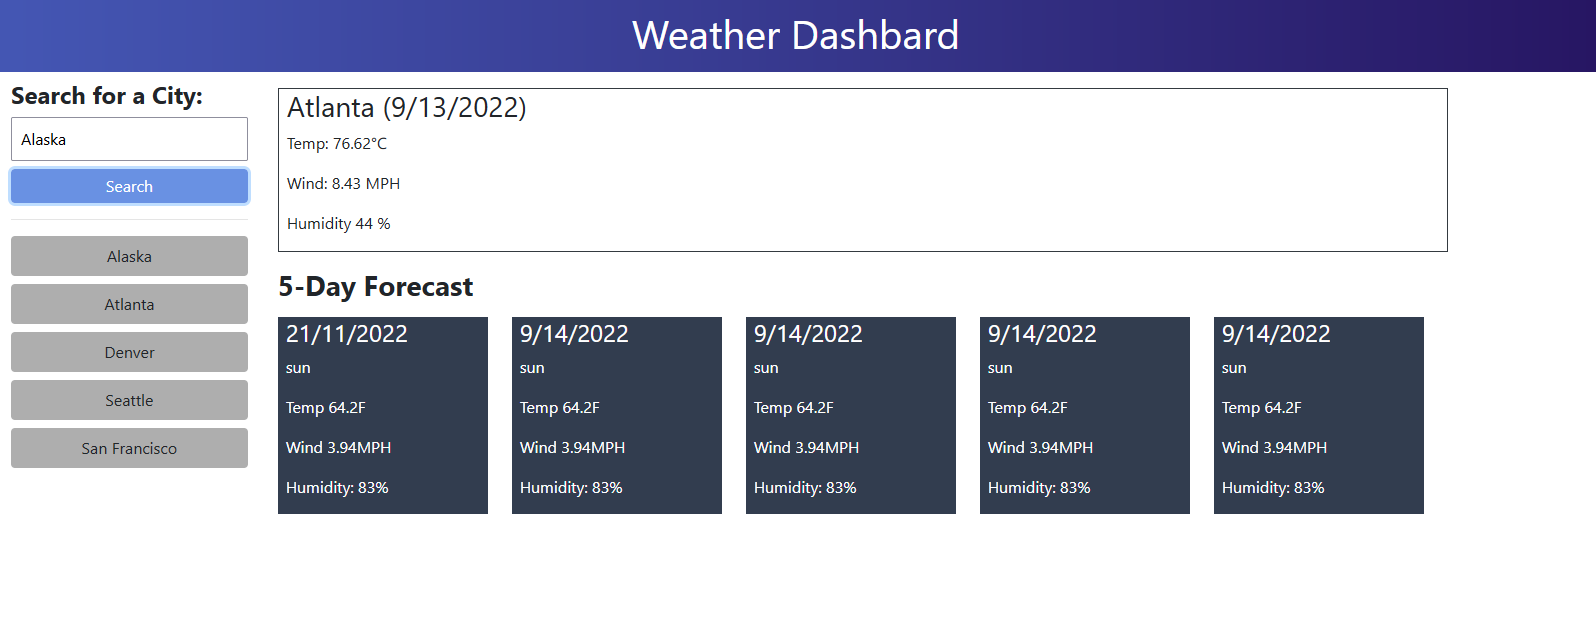
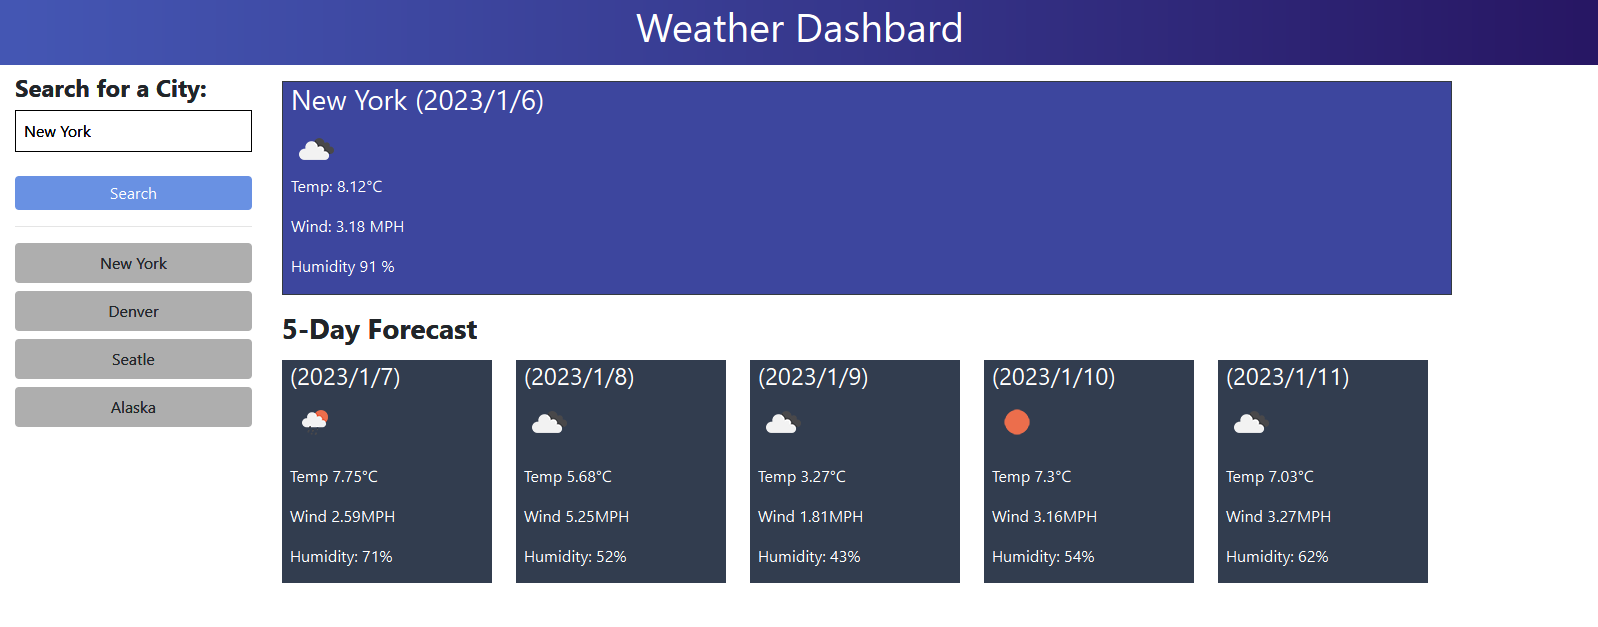
bugs fixed, non working functions made into working

diff --git a/assets/js/script.js b/assets/js/script.js
@@ -1,20 +1,148 @@
-function search(){
-    var cityInput = document.getElementById("cityInput").value;
-    if(cityInput=="")
-    {
+let input = document.getElementById("cityInput");
+let appId = "&appid=4c4cc2a0e9c2426c470227c0d2510cb2";
+let coordinatesApi = "https://api.openweathermap.org/geo/1.0/direct?q=";
+let weatherApi = "https://api.openweathermap.org/data/2.5/forecast?units=metric";
+input.addEventListener("keypress", function (event) {
+    if (event.key === "Enter") {
+        event.preventDefault();
+        search();
+    }
+});
+document.getElementById("savedC").addEventListener("click", function (e) {
+    if (e.target && e.target.matches("li.history-bg")) {
+        // e.target.className = "foo"; // new class name here
+        document.getElementById("cityInput").value = e.target.innerHTML;
+        search();
+        // console.log(e.target.innerHTML);
+    }
+});
+
+function search() {
+    let cityInput = document.getElementById("cityInput").value;
+    document.getElementById("cityInput").style.border = "1px solid black";
+    document.getElementById("err").innerHTML = "";
+    if (cityInput == "") { return; }
+    else {
+        let savedCity = localStorage.getItem('cities');
+        if (savedCity == null) {
+            let cities = [];
+            let searchedCity = { c: cityInput };
+            cities.push(searchedCity);
+            localStorage.setItem("cities", JSON.stringify(cities));
+            document.getElementById("savedC").innerHTML = "<li class=\"history-bg rounded mt-2 mb-2 p-2 text-center \">" + cityInput + "</li>";
+        }
+        else {
+            let storedCities = JSON.parse(localStorage.getItem("cities"));
+            let receivedCity = { c: cityInput };
+            storedCities.forEach(elem => {
+                if (elem.c == cityInput) {
+                    storedCities = storedCities.filter(val => val.c !== cityInput)
+                }
+            });
+            storedCities.unshift(receivedCity);
+            localStorage.setItem("cities", JSON.stringify(storedCities));
+            let result = JSON.parse(localStorage.getItem("cities"));
+            let listBtn = "";
+            result.forEach(elem => {
+                listBtn += "<li class=\"history-bg rounded mt-2 mb-2 p-2 text-center\">" + elem.c + "</li>";
+            });
+            document.getElementById("savedC").innerHTML = listBtn;
+        }
+        extractCordinates(cityInput);
+    }
+}
+
+function extractCordinates(cityInput) {
+    fetchCity = cityInput;
+    let url = coordinatesApi + fetchCity + appId
+    let lat;
+    let lon;
+    fetch(url)
+        .then(res => { return res.json(); })
+        .then(res => {
+            if (res != "") { lat = res[0].lat; lon = res[0].lon; return { lati: lat, longi: lon } }
+            else { return "no city found"; }
+        })
+        .then(res => {
+            if (res == "no city found") {
+                document.getElementById("cityInput").style.border = "1px solid #FF0000";
+                document.getElementById("err").innerHTML = "Invalid City Name";
+            }
+            else {
+                getWeather(lat, lon);
+            }
+
+        });
+}
+
+function getWeather(lat, lon) {
+    fetch(weatherApi + "&lat=" + lat + "&lon=" + lon + appId)
+        .then(res => { return res.json() })
+        .then(res => {
+            let date = new Date(),
+                dd = date.getDate(),
+                mm = date.getMonth() + 1,
+                yy = date.getFullYear();
+            let days = {};
+            for (i = 0; i <= 5; i++) {
+                let curdate = new Date(yy, mm, dd + i)
+                days[i] = curdate.getDate();
+            }
+            let n = 0;
+            let fetchedData = [];
+            res.list.forEach(el => {
+                let cd = new Date(yy, mm, dd + n)
+                let day = cd.getDate();
+                let month = cd.getMonth();
+                let year = cd.getFullYear();
+                let formattedDate = "(" + year + "/" + month + "/" + day + ")";
+                let d = new Date(el.dt * 1000);
+                dt = d.getDate();
+                if (dt == days[n]) {
+                    let icon = "http://openweathermap.org/img/wn/" + el.weather[0].icon + ".png";
+                    let data = { "date": formattedDate, "icon": icon, "weather": el.weather[0].main, "temp": el.main.temp, "wind": el.wind.speed, "humid": el.main.humidity };
+                    fetchedData.push(data);
+                    ++n;
+                }
+            })
+            let weatherDataJson = JSON.stringify(fetchedData)
+            showWeather(weatherDataJson);
+        });
+}
+
+function showWeather(weatherDataJson) {
+    let result = JSON.parse(weatherDataJson);
+    document.getElementById("currCity").innerHTML = input.value + " " + result[0].date;
+    document.getElementById("toayTemp").innerHTML = result[0].temp;
+    document.getElementById("todayWind").innerHTML = result[0].wind;
+    document.getElementById("todayHumid").innerHTML = result[0].humid;
+    document.getElementById("currCityImg").src = result[0].icon;
+    let card = "";
+    result.forEach((el, index) => {
+        if (index > 0) {
+            card += "  <div class=\"bg-card pl-2 mt-2 mr-4 text-white w-20\"><h4>" + result[index].date + "</h4><p><img src=" + result[index].icon + "></p><p>Temp " + result[index].temp + "&#8451;</p><p>Wind " + result[index].wind + "MPH</p><p>Humidity: " + result[index].humid + "%</p></div>";
+            document.getElementById("cards-container").innerHTML = card;
+        }
+    })
+    document.getElementById("greet").style.display = "none";
+    document.getElementById("res1").style.display = "block";
+    document.getElementById("res2").style.display = "block";
+}
+
+function loadBtns() {
+    let storedCities = JSON.parse(localStorage.getItem("cities"));
+    if (!storedCities) {
         return;
     }
-    else{
-        var savedCity = localStorage.getItem(cityInput);
-        if(savedCity ==null)
-        {
-            localStorage.setItem('city',cityInput);
-            document.getElementById("savedC").innerHTML=cityInput;
-        }
-        else{
-            document.getElementById("savedC").innerHTML=cityInput;
-        }
-
-    }
-    
+    localStorage.setItem("cities", JSON.stringify(storedCities));
+    let result = JSON.parse(localStorage.getItem("cities"));
+    let listBtn = "";
+    result.forEach(elem => {
+        listBtn += "<li class=\"history-bg rounded mt-2 mb-2 p-2 text-center\">" + elem.c + "</li>";
+    });
+    document.getElementById("savedC").innerHTML = listBtn;
 }
+
+window.onload = function () {
+    loadBtns();
+};

diff --git a/index.html b/index.html
@@ -1,5 +1,6 @@
 <!DOCTYPE html>
 <html lang="en">
+
 <head>
     <meta charset="UTF-8">
     <meta http-equiv="X-UA-Compatible" content="IE=edge">
@@ -8,6 +9,7 @@
     <link rel="stylesheet" href="./assets/css/styles.css">
     <title>Weather</title>
 </head>
+
 <body>
     <header class="nav-header header-bg text-center text-white pt-2 pb-2">
         <h1>Weather Dashbard</h1>
@@ -17,28 +19,30 @@
             <section class="col-lg-2 mt-2">
                 <div>
                     <h4 class="text-black"><b> Search for a City:</b></h4>
-                    <input type="text" class="mb-2 pt-2 pb-2 pl-2 w-100" placeholder="San Diego" id="cityInput">
-                    <button class="btn bg-search text-white w-100 pt-1 pb-1" id="search" onClick="search()">Search</button>
+                    <input type="text" class="mb-2 pt-2 pb-2 pl-2 w-100" placeholder="San Diego" id="cityInput"
+                        value="Islamabad">
+                    <p id="err"></p>
+                    <button class="btn bg-search text-white w-100 pt-1 pb-1" id="search"
+                        onClick="search()">Search</button>
                 </div>
                 <hr>
                 <div>
-                    <ul class="list-unstyled">
-                        <li class="history-bg rounded mt-2 mb-2 p-2 text-center" id="savedC"></li>
-                        <li class="history-bg rounded mt-2 mb-2 p-2 text-center">Atlanta</li>
-                        <li class="history-bg rounded mt-2 mb-2 p-2 text-center">Denver</li>
-                        <li class="history-bg rounded mt-2 mb-2 p-2 text-center">Seattle</li>
-                        <li class="history-bg rounded mt-2 mb-2 p-2 text-center">San Francisco</li>
+                    <ul class="list-unstyled" id="savedC">
                     </ul>
                 </div>
             </section>
             <section class="col-lg-9 mt-3">
-                <section class="border border-dark pl-2 ">
-                    <h3>Atlanta (9/13/2022)</h3>
-                    <p>Temp: <span id="toayTemp">76.62</span>&#8451;</p>
+                <section class="border border-dark pl-2 " id="greet">
+                    <h2 class="text-center">Search For Weather</h2>
+                </section>
+                <section class="border border-dark pl-2 " id="res1">
+                    <h3 id="currCity">Atlanta (9/13/2022)</h3>
+                    <img src="" id="currCityImg">
+                    <p>Temp: <span id="toayTemp">76.62</span>&#8451; </p>
                     <P>Wind: <span id="todayWind">8.43</span> MPH</P>
                     <P>Humidity <span id="todayHumid">44</span> %</P>
                 </section>
-                <section class="mt-3">
+                <section class="mt-3" id="res2">
                     <h3><b>5-Day Forecast</b></h3>
                     <div class="d-flex" id="cards-container">
                         <div class="bg-card pl-2 mt-2 mr-4 text-white w-20">
@@ -83,4 +87,5 @@
     </main>
     <script src="./assets/js/script.js"></script>
 </body>
+
 </html>

diff --git a/assets/css/styles.css b/assets/css/styles.css
@@ -1,8 +1,19 @@
 .header-bg{
     background: linear-gradient(90deg, rgba(68,86,179,1) 1%, rgba(56,59,145,1) 46%, rgba(39,22,99,1) 100%);
 }
+#res1{
+    background: #3d469e;
+    color: white;
+}
+#res1,#res2{
+    display: none;
+}
 .history-bg{
     background-color: #aeaeae;
+    cursor: pointer;
+}
+.history-bg:hover{
+    background-color: #6991e3;
 }
 .bg-search{
     background-color: #6991e3;
@@ -14,6 +25,10 @@
     width: 20%;
     /* min-width: 20%; */
     /* max-width: 20%; */
+}
+#err{
+    color: red;
+    font-style: bold;
 }
 @media screen and (max-width: 759px) {
     #cards-container{
